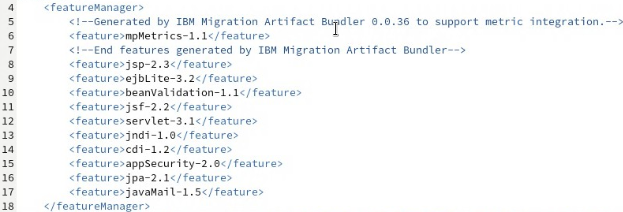
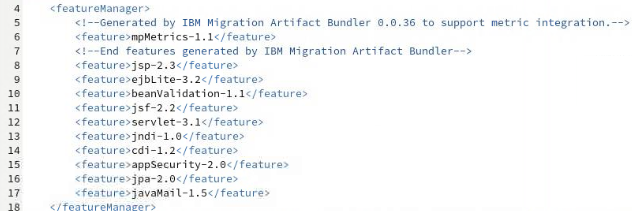
Update pictures

diff --git a/README.md b/README.md
@@ -207,7 +207,7 @@ A `workspace` is a designated area that will house the migration recommendations
 
     b.  Type **`Evaluation`** as the Workspace name. Then click the **`Create`** button
 
-     ![A screenshot of a computer Description automatically generated](./images/media/image15.png)
+     ![screenshot](./images/media/image15.png)
 
 2. Upload an existing **'scan results'** file provided for the lab.
 
@@ -266,7 +266,7 @@ A `workspace` is a designated area that will house the migration recommendations
   - No changes to the source code are required
  
    
-![A screenshot of a computer Description automatically generated](./images/media/image20.png)
+![screenshot](./images/media/image20.png)
 
  ***How is this application ready for deployment when it shows 4 issues?***
  
@@ -280,7 +280,7 @@ A `workspace` is a designated area that will house the migration recommendations
 
     a. Click on the **`Migration plan`** link at the end of the row of the **plantsbywebsphereee6.ear** application.
 
-    ![A screenshot of a computer Description automatically generated](./images/media/image21.png)
+    ![screenshot](./images/media/image21.png)
 
     b.  The **Migration Plan** page opens.
 
@@ -306,7 +306,7 @@ A `workspace` is a designated area that will house the migration recommendations
 
 3.  Download the migration plan by clicking the **`Download plan`** button in the bottom right. 
 
-    ![A screenshot of a computer Description automatically generated](./images/media/image24.png)
+    ![screenshot](./images/media/image24.png)
     A zip file named “**plantsbywebsphereee6.ear_migrationPlan.zip**” will download to your **Download** folder.
 
 
@@ -361,7 +361,7 @@ Then, you will review the migration bundle to see what files you need to add, an
 
 4.  Confirm the local WebSphere Liberty server is running. Open the `Firefox` web browser, open a new browser tab. Then go to: **http://localhost:9080**
 
-    ![A screenshot of a computer Description automatically generated](./images/media/image25.png)
+    ![screenshot](./images/media/image25.png)
 
 
 5.  From the **Terminal** window, stop the local WebSphere Liberty server.
@@ -460,14 +460,20 @@ In this section, extract the migration bundle that you downloaded. Then, copy th
 
         echo "JAVA_HOME=/usr/lib/jvm/ibm-semeru-open-8-jdk" >> ~/Student/wlp/usr/servers/pbwserver/server.env
  
-    ___
+8. Configure Liberty to use JPA 2.0 instead of JPA 2.1. 
 
-    Now that the PlantsByWebSphere binary and its configuration are added to the Liberty server, the application is ready to be run form the web browser.     
-    ___
+        sed -i 's/jpa-2.1/jpa-2.0/g' /home/itzuser/Student/wlp/usr/servers/pbwserver/server.xml
+    
 
-8. Install the missing Liberty features reequired to run the application
+9. Install the missing Liberty features reequired to run the application
 
         ~/Student/wlp/bin/featureUtility installServerFeatures pbwserver
+
+
+    ___
+
+    Now that the PlantsByWebSphere binary and its configuration are added to the Liberty server, the application is ready to be run from the web browser.     
+    ___
 
 9. Start the Liberty server
 
@@ -514,7 +520,7 @@ The **server.xml** file defines a set of **`features`** that the application req
 
     - **Section 1** contains the `features` that the application requires, and these are discovered automatically during analysis performed by the Application Modernization Accelerator **Data Collector**.
 
-      ![A screenshot of a computer Description automatically generated](./images/media/image38.png)
+      ![FeatureManager](./images/media/image38.png)
 
     - **Section 2:** Defines the `resources` required to access the database
 
@@ -522,22 +528,22 @@ The **server.xml** file defines a set of **`features`** that the application req
 
       - The **`jdbc`** driver defines the required libraries. These are the libraries you copied into this location via the script
 
-      ![A computer code with green and white text Description automatically generated](./images/media/image39.png)
+      ![database resources](./images/media/image39.png)
 
     - **Section 3:** The **`datasource`** contains all the information required to access the database: Database user, password, database name, host, and port number.
 
-      ![A computer screen shot of a program Description automatically generated](./images/media/image40.png)
+      ![datasource](./images/media/image40.png)
 
 
     - **Section 4** contains the variables for the **`non-sensitive configuration data`**. For example, the port to run the server on. The values of these variables are collected by Application Modernization Accelerator.
 
-      ![A screen shot of a computer code Description automatically generated](./images/media/image41.png)
+      ![non-sensitive config data](./images/media/image41.png)
 
     - **Section 5** contains the **`sensitive data variables`**. 
     
       You can see that the values for these variables are all **blank**, as this information is **never** collected by Application Modernization Accelerator.
 
-      ![A screenshot of a computer program Description automatically generated](./images/media/image42.png)
+      ![sensitive config data](./images/media/image42.png)
 
 
 2.  The reason that the **PlantsByWebSphere** application returned an “Exception” is because the values for the **sensitive variables** has not been set - neither in the server.xml nor in the environment. 
@@ -571,7 +577,6 @@ The **server.xml** file defines a set of **`features`** that the application req
 
         sed -i 's/vm-1/desktop-2/g' /home/itzuser/Student/wlp/usr/servers/pbwserver/server.xml
 
-
 3. From a Terminal window, `start` the Liberty server named ‘pbwserver”
 
         ~/Student/wlp/bin/server start pbwserver
@@ -584,7 +589,7 @@ The **server.xml** file defines a set of **`features`** that the application req
 
     a. Click the “**Flowers**” tab. The catalog of flowers should now be displayed.
 
-    ![A screenshot of a computer Description automatically generated](./images/media/image45.png)
+    ![PBW Flowers](./images/media/image45.png)
 
 
 3. From a **Terminal** window, `Stop` the Liberty server named ‘**pbwserver**”
@@ -637,7 +642,7 @@ This is what we will do now.
 
 5. The `migration bundle` is ready to be used to generate an image of your application running on WebSphere Liberty. To do this, we will use the **`Containerfile`** that comes with the migration bundle.
 
-    ![A screenshot of a computer Description automatically generated](./images/media/image49a.png)
+    ![screenshot](./images/media/image49a.png)
 
     a. Explore the Containerfile in the migration bundle
 
@@ -986,7 +991,7 @@ You must specify which overlay will provide the configuration (dev in this case)
 
     This catalog of trees was retrieved from the DB2 database in the `dev` configuration.
  
-    ![A screenshot of a computer Description automatically generated](./images/media/image79.png)
+    ![screenshot](./images/media/image79.png)
 
 
 
@@ -1016,7 +1021,7 @@ In this section, you will take a look at the **WebSphere Liberty Operator** in t
 
     d.  Click on **`IBM WebSphere Liberty`**
 
-    ![A screenshot of a computer Description automatically generated](./images/media/installed-operators-apps-pbw.png)
+    ![screenshot](./images/media/installed-operators-apps-pbw.png)
 
 
 3. View the **WebSphereLibertyApplication** `Deployment`
@@ -1029,44 +1034,44 @@ In this section, you will take a look at the **WebSphere Liberty Operator** in t
 
     b. Click on the link called **`plantsbywebsphereee6`** under the **Name** column
 
-    ![A screenshot of a computer Description automatically generated](./images/media/image88a.png)
+    ![screenshot](./images/media/image88a.png)
 
     c.  Select the **`Resources`** tab
 
-    ![A screenshot of a computer Description automatically generated](./images/media/image89a.png)
+    ![screenshot](./images/media/image89a.png)
 
     d. Select the link for the **`Deployment`**
 
-    ![A screenshot of a computer Description automatically generated](./images/media/image90a.png)
+    ![screenshot](./images/media/image90a.png)
 
     e. The PlantsByWebSphere deployment has one `pod` running
 
-    ![A screenshot of a computer Description automatically generated](./images/media/image91a.png)
+    ![screenshot](./images/media/image91a.png)
 
 
 4.  View the WebSphereLibertyApplication **`Route`**
 
     a.  Return to the **plantsbywebsphereee6 operator** page
 
-    ![A screenshot of a computer Description automatically generated](./images/media/image92a.png)
+    ![screenshot](./images/media/image92a.png)
 
     b.  Click the **`Resources`** tab
 
-    ![A screenshot of a computer Description automatically generated](./images/media/image92b.png)
+    ![screenshot](./images/media/image92b.png)
 
     c.  Select the link of **Kind: `route`**
 
-    ![A screenshot of a computer Description automatically generated](./images/media/image93a.png)
+    ![screenshot](./images/media/image93a.png)
 
     d.  Click on the **`Location`** link for the route
 
          http://plantsbywebsphereee6-apps-pbw.apps.ocp.ibm.edu
 
-    ![A screenshot of a computer Description automatically generated](./images/media/image94a.png)
+    ![screenshot](./images/media/image94a.png)
 
     e.  The **Welcome to Liberty** page is displayed in a new Browser tab. 
 
-    ![A screenshot of a computer Description automatically generated](./images/media/image95.png)
+    ![screenshot](./images/media/image95.png)
 
     f.  Append the context root ‘**PlantsByWebSphere’** to access the PlantsByWebSphere application
 
@@ -1146,7 +1151,7 @@ In this section, we will deploy the same application again with a new configurat
     ___
     For reference, this catalog of trees was retrieved from the `dev` database. Notice the name of the trees are different. 
  
-    ![A screenshot of a computer Description automatically generated](./images/media/image79.png)
+    ![screenshot](./images/media/image79.png)
 
  
 # Summary
@@ -1230,7 +1235,7 @@ IBM Cloud Application Modernization Accelerator (TA) analyzes application and co
  
 TA provides recommendations for modernization which includes and considers application complexity, dependencies, potential issues, and estimated development effort.
  
-![A screenshot of a computer Description automatically generated](./images/media/image106.png)
+![screenshot](./images/media/image106.png)
 
 1. In a browser window, return to Application Modernization Accelerator using the following URL: 
 
@@ -1271,7 +1276,7 @@ This workspace has only a single application name `plantsbywebsphereee6.ear`. It
 
 4. Click on **plantsByWebSphereee6.ear** which will expand the analysis
 
-    ![A screenshot of a computer Description automatically generated](./images/media/image108.png)
+    ![screenshot](./images/media/image108.png)
 
     a. Scroll down, noting the groups or categories of analysis available
     
@@ -1304,11 +1309,11 @@ This workspace has only a single application name `plantsbywebsphereee6.ear`. It
 
     a.  Click on the **`Analysis report`** link. 
 
-    ![A screenshot of a computer Description automatically generated](./images/media/image109.png)
+    ![screenshot](./images/media/image109.png)
 
     b. The **Analysis report** will open in a new browser tab
 
-    ![A screenshot of a computer Description automatically generated](./images/media/image110.png)
+    ![screenshot](./images/media/image110.png)
  
 
     c.  Note the **target**
@@ -1323,18 +1328,18 @@ This workspace has only a single application name `plantsbywebsphereee6.ear`. It
 
     d.  Click on the **`Information`** label, to review the details of this item.
 
-    ![A screenshot of a computer Description automatically generated](./images/media/image112.png)
+    ![screenshot](./images/media/image112.png)
  
     The **Information** rules provide migration related considerations. Be aware of these rules during testing. Many of these rules relate to connectivity to other resources that need to be considered during migration.
 
     e.  You may review the Information rules for PlantsByWebSphere migration.
 
-    ![A screenshot of a computer Description automatically generated](./images/media/image113.png)
+    ![screenshot](./images/media/image113.png)
 
 
 6.  Return to the **Cloud Application Modernization Accelerator** browser tab that shows the **plantsbywebsphereee6.ear details** page. Then click on **`Inventory Report`**, which will open in a new browser tab.
 
-    ![A screenshot of a computer Description automatically generated](./images/media/image114.png)
+    ![screenshot](./images/media/image114.png)
 
     a.  Scroll down and review the Inventory Report, which is especially useful in larger applications.
 
@@ -1348,17 +1353,17 @@ This workspace has only a single application name `plantsbywebsphereee6.ear`. It
 
     c.  Notice the PlantsByWebSphere application contains utility jar named **‘pbw-lib’jar**’. The archive package is “ibm.com.websphere’, indicating it is NOT a 3<sup>rd</sup> party utility jar.
 
-    ![A screenshot of a computer Description automatically generated](./images/media/image116.png)
+    ![screenshot](./images/media/image116.png)
 
     d.  Return to the **Cloud Application Modernization Accelerator** browser tab that shows the **plantsbywebsphereee6.ear details** page. Then click on **`Technology report`**, which will open in a new browser tab.
 
     The **Technology report** provides details on which editions of Liberty support the technologies used by the applications.
  
-    ![A screenshot of a computer Description automatically generated](./images/media/image117.png)
+    ![screenshot](./images/media/image117.png)
 
     a.  Scroll down the Technology Report, which can quickly help assess which Java EE API technologies that the PlantsByWebSphere application uses, and which editions of Liberty the APIs are available.
 
-    ![A screenshot of a computer Description automatically generated](./images/media/image118.png)
+    ![screenshot](./images/media/image118.png)
 
     b. As you see from the report above, the APIs used in the PlantsByWebSphere application are available in ALL editions of Liberty.
 
